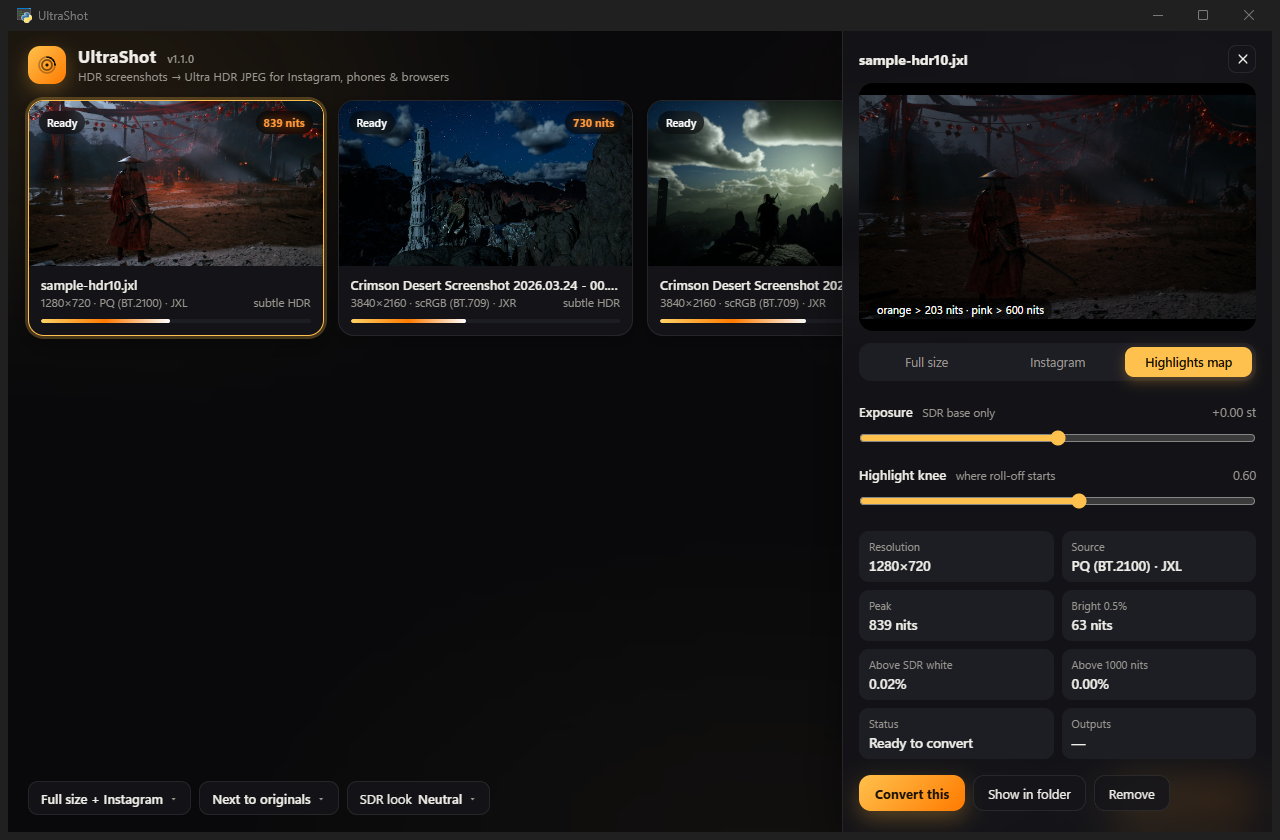
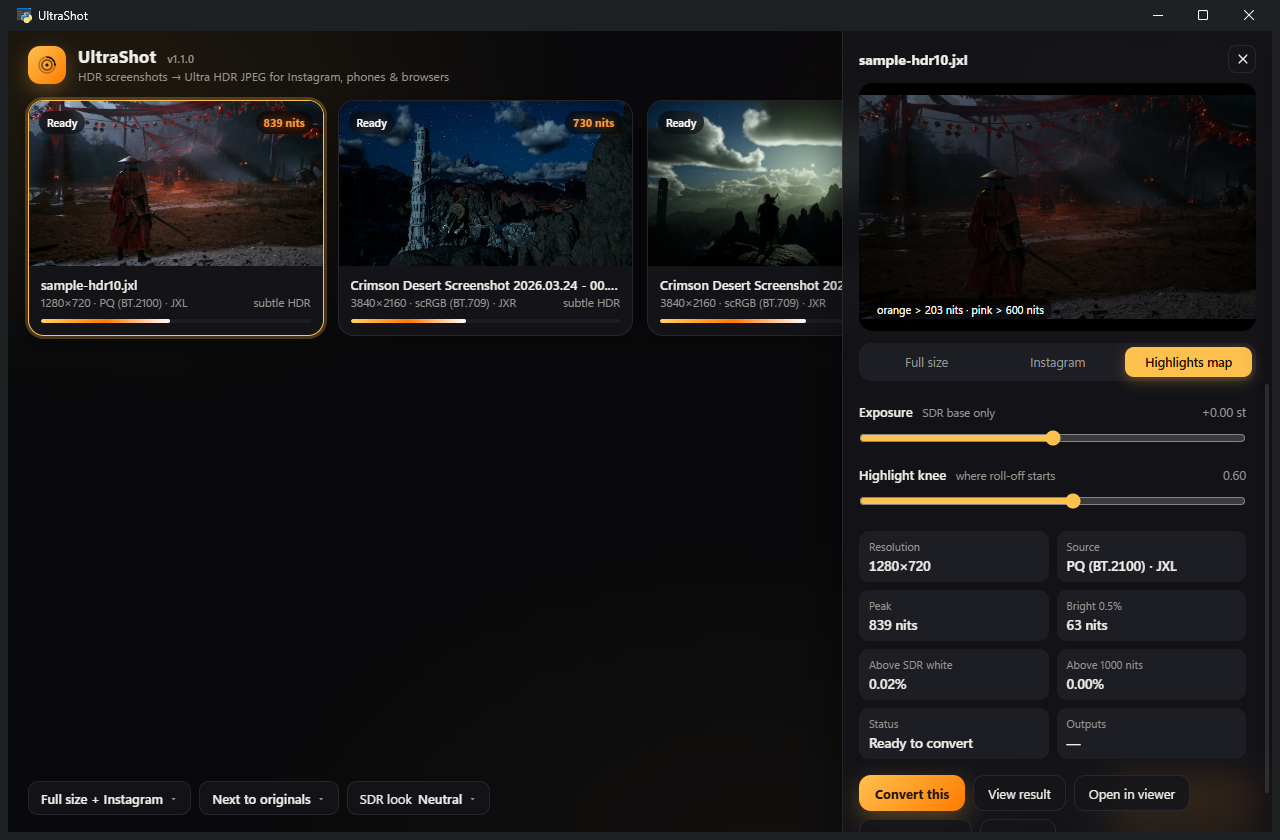
Settings and log open as side panels from the right
Both slide in over the main view like the inspector, with a close button and
Esc to dismiss, replacing the full-page settings and the bottom log sheet.
The log starts with a ready line so it never opens empty.

diff --git a/ui/app.js b/ui/app.js
@@ -31,6 +31,7 @@ function applyState(st) {
   S.settings = st.settings;
   S.watching = st.watching;
   S.version = st.version; S.codec = st.codec;
+  appendLog(new Date().toTimeString().slice(0, 8), `UltraShot ${st.version} ready · libultrahdr via imagecodecs ${st.codec}` + (st.watching ? ` · watching ${st.settings.watch_dir}` : ""));
   S.files.clear(); S.order = [];
   for (const f of st.files) { S.files.set(f.id, f); S.order.push(f.id); }
   $("#ver").textContent = "v" + st.version;
@@ -289,7 +290,7 @@ const SECTIONS = [
 
 function renderSettings() {
   const body = $("#settingsBody");
-  if ($("#settings").classList.contains("hidden")) return;
+  if (!$("#settings").classList.contains("open")) return;
   const s = S.settings;
   body.innerHTML = "";
   for (const sec of SECTIONS) {
@@ -356,8 +357,11 @@ async function saveSetting(key, val) {
   if (["exposure", "knee", "auto_sdr", "ig_crop", "crop_x", "crop_y", "transfer", "ig_width"].includes(key)) requestPreview();
 }
 
-function openSettings() { $("#settings").classList.remove("hidden"); renderSettings(); }
-function closeSettings() { $("#settings").classList.add("hidden"); }
+function openSettings() { closeLog(); closeInspector(); $("#settings").classList.add("open"); renderSettings(); }
+function closeSettings() { $("#settings").classList.remove("open"); }
+function openLog() { closeSettings(); closeInspector(); $("#logdrawer").classList.add("open"); const pre = $("#logbody"); pre.scrollTop = pre.scrollHeight; }
+function closeLog() { $("#logdrawer").classList.remove("open"); }
+function toggleLog() { $("#logdrawer").classList.contains("open") ? closeLog() : openLog(); }
 
 /* ------------------------------------------------------------------ popovers, toasts, log */
 function popover(anchor, items) {
@@ -443,8 +447,8 @@ function bindUI() {
   $("#btnConvert").addEventListener("click", convertAll);
   $("#btnSettings").addEventListener("click", openSettings);
   $("#settingsBack").addEventListener("click", closeSettings);
-  $("#btnLog").addEventListener("click", () => $("#logdrawer").classList.toggle("hidden"));
-  $("#btnLogClose").addEventListener("click", () => $("#logdrawer").classList.add("hidden"));
+  $("#btnLog").addEventListener("click", toggleLog);
+  $("#btnLogClose").addEventListener("click", closeLog);
   $("#btnLogClear").addEventListener("click", () => { $("#logbody").innerHTML = ""; });
   $("#watchPill").addEventListener("click", () => S.api.set_watch(!S.watching));
   $("#inspClose").addEventListener("click", closeInspector);
@@ -499,7 +503,7 @@ function bindUI() {
     const lbOpen = !$("#lightbox").classList.contains("hidden");
     if (lbOpen && e.key === "ArrowLeft") { stepLightbox(-1); return; }
     if (lbOpen && e.key === "ArrowRight") { stepLightbox(1); return; }
-    if (e.key === "Escape") { if (lbOpen) closeLightbox(); else if (!$("#settings").classList.contains("hidden")) closeSettings(); else if (!$("#popover").classList.contains("hidden")) $("#popover").classList.add("hidden"); else closeInspector(); }
+    if (e.key === "Escape") { if (lbOpen) closeLightbox(); else if ($("#settings").classList.contains("open")) closeSettings(); else if ($("#logdrawer").classList.contains("open")) closeLog(); else if (!$("#popover").classList.contains("hidden")) $("#popover").classList.add("hidden"); else closeInspector(); }
     if (e.key === "Enter" && !e.ctrlKey && S.selected && document.activeElement.tagName !== "INPUT" && !lbOpen) openResult(S.selected);
     if (e.key === "Delete" && S.selected && document.activeElement.tagName !== "INPUT") S.api.remove(S.selected);
     if (e.ctrlKey && e.key.toLowerCase() === "o") { e.preventDefault(); S.api.pick_files(); }

diff --git a/ui/app.css b/ui/app.css
@@ -197,12 +197,16 @@ input[type=range] { width: 100%; margin: 8px 0 0; accent-color: var(--accent); h
 
 /* ---------- settings page */
 .page {
-  position: fixed; inset: 0; z-index: 30; background: var(--bg); overflow: auto; animation: slidein .22s ease-out;
+  position: fixed; top: 0; right: 0; bottom: 0; width: min(640px, 100%); z-index: 30; overflow: auto;
+  background: var(--panel); backdrop-filter: blur(18px); border-left: 1px solid var(--border); box-shadow: var(--shadow);
+  transform: translateX(105%); transition: transform .25s cubic-bezier(.2,.8,.2,1);
 }
-@keyframes slidein { from { opacity: 0; transform: translateX(24px);} to { opacity: 1; transform: none; } }
-.page-head { display: flex; align-items: center; gap: 12px; padding: 16px 24px 6px; position: sticky; top: 0; background: var(--bg); z-index: 2; }
-.page-head h1 { font-size: 20px; margin: 0; }
-.page-body { padding: 8px 24px 40px; max-width: 980px; }
+.page.open { transform: none; }
+.page-head { display: flex; align-items: center; justify-content: space-between; gap: 12px; padding: 14px 20px 8px; position: sticky; top: 0; background: var(--panel-solid); z-index: 2; border-bottom: 1px solid var(--border); }
+.page-head h1 { font-size: 18px; margin: 0; }
+.page-body { padding: 4px 20px 40px; }
+.row { flex-wrap: wrap; }
+.row .ctl { flex-wrap: wrap; justify-content: flex-end; }
 .section-title { font-size: 12.5px; font-weight: 650; color: var(--muted); margin: 20px 4px 8px; text-transform: uppercase; letter-spacing: .4px; }
 .section { background: var(--panel-solid); border: 1px solid var(--border); border-radius: 14px; overflow: hidden; }
 .row { display: flex; align-items: center; justify-content: space-between; gap: 16px; padding: 12px 16px; border-top: 1px solid var(--border); }
@@ -230,11 +234,13 @@ input[type=range] { width: 100%; margin: 8px 0 0; accent-color: var(--accent); h
 
 /* ---------- log drawer */
 .drawer {
-  position: fixed; left: 20px; right: 20px; bottom: 76px; height: 260px; z-index: 25; border-radius: 14px;
-  background: var(--panel); backdrop-filter: blur(16px); border: 1px solid var(--border); box-shadow: var(--shadow);
-  display: flex; flex-direction: column; animation: pop .2s ease-out;
+  position: fixed; top: 0; right: 0; bottom: 0; width: min(520px, 100%); z-index: 28;
+  background: var(--panel); backdrop-filter: blur(16px); border-left: 1px solid var(--border); box-shadow: var(--shadow);
+  display: flex; flex-direction: column; transform: translateX(105%); transition: transform .25s cubic-bezier(.2,.8,.2,1);
 }
-.drawer-head { display: flex; justify-content: space-between; align-items: center; padding: 8px 10px 8px 14px; font-size: 13px; font-weight: 600; border-bottom: 1px solid var(--border); }
+.drawer.open { transform: none; }
+.drawer-head { display: flex; justify-content: space-between; align-items: center; padding: 14px 14px 10px 20px; font-size: 18px; font-weight: 600; border-bottom: 1px solid var(--border); }
+.drawer-head > div { display: flex; align-items: center; gap: 8px; }
 .drawer pre { margin: 0; padding: 10px 14px; overflow: auto; flex: 1; font-family: var(--mono); font-size: 12px; line-height: 1.5; color: var(--muted); user-select: text; }
 .drawer pre .t { color: var(--accent); }
 .drawer pre .err { color: var(--err); }

diff --git a/ui/index.html b/ui/index.html
@@ -112,17 +112,17 @@
   </div>
 </aside>
 
-<div id="settings" class="page hidden">
+<div id="settings" class="page" aria-label="Settings">
   <div class="page-head">
-    <button class="iconbtn" id="settingsBack" title="Back">
-      <svg viewBox="0 0 24 24" width="18" height="18" fill="none" stroke="currentColor" stroke-width="2" stroke-linecap="round" stroke-linejoin="round"><path d="M15 6l-6 6 6 6"/></svg>
-    </button>
     <h1>Settings</h1>
+    <button class="iconbtn small" id="settingsBack" title="Close (Esc)">
+      <svg viewBox="0 0 24 24" width="16" height="16" fill="none" stroke="currentColor" stroke-width="2" stroke-linecap="round"><path d="M6 6l12 12M18 6L6 18"/></svg>
+    </button>
   </div>
   <div class="page-body" id="settingsBody"></div>
 </div>
 
-<div id="logdrawer" class="drawer hidden">
+<div id="logdrawer" class="drawer" aria-label="Log">
   <div class="drawer-head"><span>Log</span><div><button class="ghost tiny" id="btnLogClear">Clear</button><button class="iconbtn small" id="btnLogClose"><svg viewBox="0 0 24 24" width="14" height="14" fill="none" stroke="currentColor" stroke-width="2" stroke-linecap="round"><path d="M6 6l12 12M18 6L6 18"/></svg></button></div></div>
   <pre id="logbody"></pre>
 </div>

diff --git a/tools/screenshots.py b/tools/screenshots.py
@@ -102,6 +102,9 @@ def main():
         js("document.querySelector('#popover').classList.add('hidden'); openSettings()")
         time.sleep(1.0)
         shot("settings.png")
+        js("closeSettings(); openLog()")
+        time.sleep(1.0)
+        shot("log.png")
         window.destroy()
 
     window.events.loaded += lambda: threading.Thread(target=flow, daemon=True).start()
